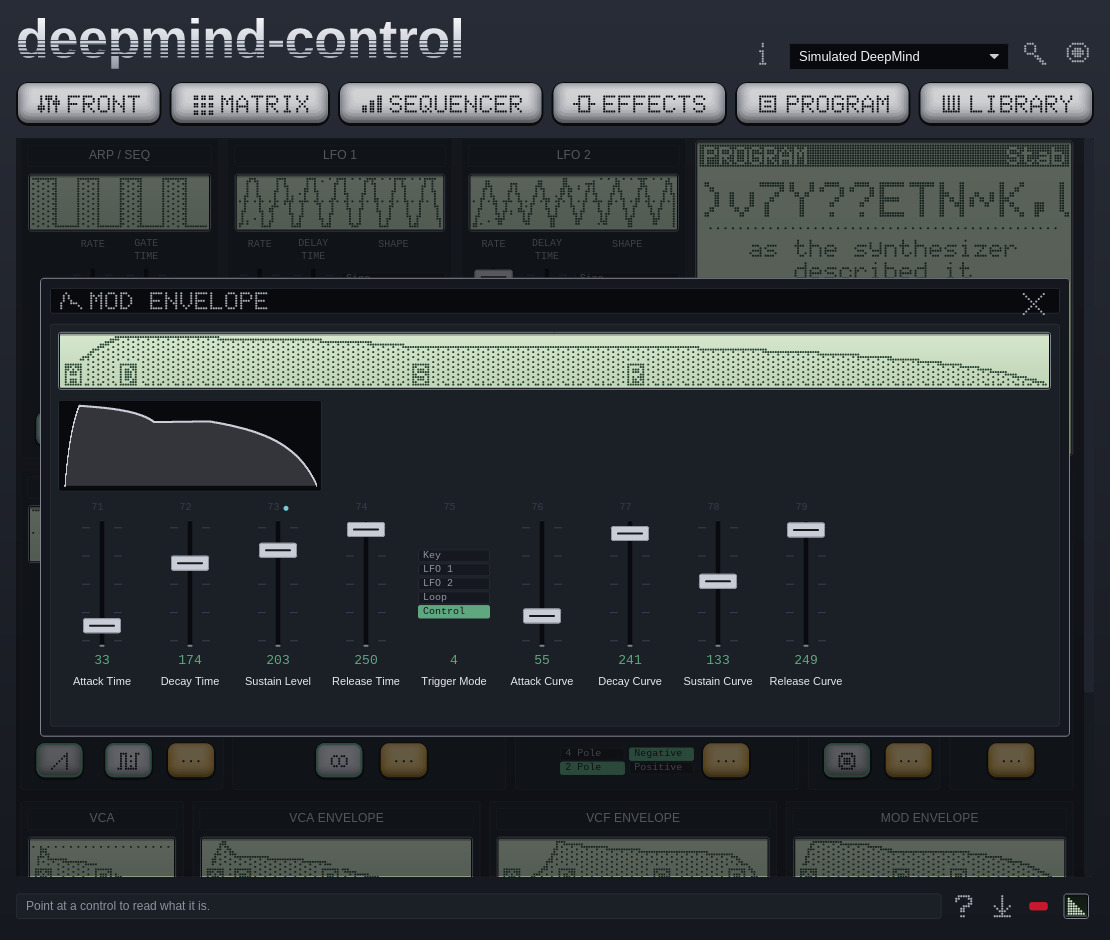
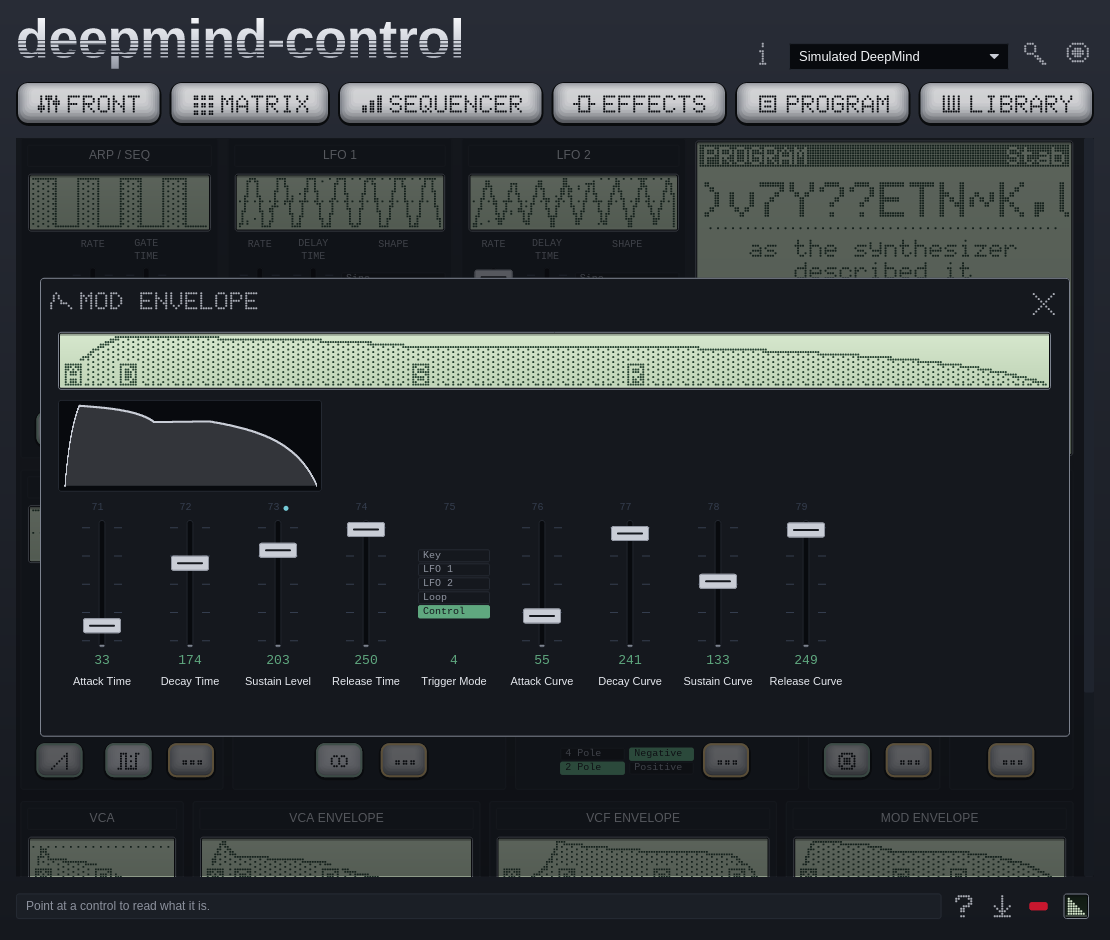
Take three frames down to one, and ring a press instead of lighting it
A sheet was a bordered panel holding a bordered heading band above a bordered
face plate holding the rack: three rectangles deep before anything on it is a
control. Each of the three was right where it came from and wrong here. A
heading band is recessed on the front panel because it sits in a row of ten
plates; a face plate is bordered because it is raised off the panel the
recesses are cut into. A rack is never on the front panel. It is on a sheet,
which is already a plate lifted off the window, or on a page, which is the
window.

So the sheet keeps its own edge and the two inside it are gone. The title
stands on the sheet and the rack stands under it. What is left framed is every
individual control, which is drawn as a recess with a lit lower wall and has
never needed help reading as cut.

The press that opens a section is ringed in the instrument's amber rather than
lit in it. A DeepMind leaves every EDIT lit the whole time it is powered, which
is true, and which made ten amber rectangles the loudest thing in a window
whose every other press is off. The ring says which row the press is in at a
tenth of the ink, and the lamp goes back to being what a press carrying a value
spends. Face::ringed is the new face; the cap is unchanged otherwise.

The claim ring goes through cap::glow, the way the modulation teal already
does, and for the same reason plus one. The ring stands in the band a backlit
cap has between its bezel and its hot middle, so it is a band of lamp — and
[…]

diff --git a/crates/control-ui/src/modal.rs b/crates/control-ui/src/modal.rs
@@ -49,7 +49,7 @@
 
 use deepmind_midi::param::Group;
 use iced_core::alignment::{Horizontal, Vertical};
-use iced_core::{Background, Border, Font, Length, Theme, text::Renderer as TextRenderer};
+use iced_core::{Font, Length, Theme, text::Renderer as TextRenderer};
 use iced_widget::{button, column, container, mouse_area, opaque, row, scrollable, space, stack};
 
 use crate::Element;
@@ -263,11 +263,16 @@ where
 /// sheet needed told twice — the display under it is drawn in the claim it is
 /// under, the way every display here is.
 ///
-/// The band the plaque sits on is the one a plate on the front panel prints its
-/// name in, because that is where somebody has just come from: the name was
-/// printed across the top of the plate whose `EDIT` they pressed. At the
-/// right-hand end is the one press. A heading with nothing at that end would be
-/// a sheet whose only ways out are two gestures.
+/// **On the sheet and not in a box on it.** It was a recessed band with a
+/// border, which is what a plate on the front panel prints its name in — and a
+/// plate needs one because it stands in a row of ten plates on a dark panel.
+/// A sheet is already a panel lifted off the window with its own lit edge, and
+/// the rack under this is already the thing the eye lands on. A bordered band
+/// inside a bordered sheet above a bordered rack is three frames deep to say
+/// one word. The title is the words and the mark, standing on the sheet.
+///
+/// At the right-hand end is the one press. A heading with nothing at that end
+/// would be a sheet whose only ways out are two gestures.
 fn heading<'a, Renderer>(section: Group) -> Element<'a, Renderer>
 where
     Renderer: TextRenderer<Font = Font> + 'a,
@@ -283,19 +288,6 @@ where
     )
     .width(Length::Fill)
     .height(Length::Fixed(HEAD))
-    .padding([0.0, WITHIN])
-    .style(|theme: &Theme| {
-        let material = materials(theme);
-        container::Style {
-            background: Some(Background::Color(material.recess)),
-            border: Border {
-                color: material.recess_edge,
-                width: 1.0,
-                radius: 2.into(),
-            },
-            ..container::Style::default()
-        }
-    })
     .into()
 }
 

diff --git a/crates/control-ui/src/cap.rs b/crates/control-ui/src/cap.rs
@@ -168,6 +168,21 @@ impl Face {
             ring: None,
         }
     }
+
+    /// A cap with no lamp behind it, ringed in `ring`.
+    ///
+    /// What the press that opens a section wears. It was lit, on the argument
+    /// that a `DeepMind` leaves every `EDIT` lit the whole time it is powered —
+    /// which is true, and which made ten amber rectangles the loudest thing on
+    /// a panel whose every other press is off. A ring says the same thing at a
+    /// tenth of the ink: this is the amber row, and the lamp is what the ones
+    /// carrying a *value* spend.
+    pub(crate) const fn ringed(ring: Color) -> Self {
+        Self::Cap {
+            lamp: None,
+            ring: Some(ring),
+        }
+    }
 }
 
 impl Face {
@@ -529,6 +544,12 @@ where
         // middle. Drawn last of the cap's own layers so the diffuser does not
         // wash it out at the corners, where the rounding brings the two within
         // a point of each other.
+        //
+        // Through [`glow`], because the band it stands in is a band of *lamp*:
+        // a ring drawn at the raw colour is harder and more saturated than any
+        // light that ever came through this rubber, and next to a lit cap it
+        // reads as printed on rather than lit from under. The green on a
+        // confirmed value used to be the one saturated thing on the panel.
         if let Some(ring) = face.ring() {
             renderer.fill_quad(
                 renderer::Quad {
@@ -536,7 +557,7 @@ where
                     border: Border {
                         color: Color {
                             a: if held { RINGING / 2.0 } else { RINGING },
-                            ..ring
+                            ..glow(ring)
                         },
                         width: BAND,
                         radius: mould(rubber.height).into(),

diff --git a/crates/control-ui/src/panel.rs b/crates/control-ui/src/panel.rs
@@ -670,25 +670,15 @@ where
     if !slots.is_empty() {
         body = body.push(row(slots).spacing(0).wrap());
     }
-    container(body)
-        .padding(8)
-        .style(|theme: &Theme| {
-            // The face plate the library's own panels draw their slots on.
-            let material = materials(theme);
-            container::Style {
-                // Raised off the panel, so the recesses cut into it read as
-                // cut into something. A plate the colour of its own slots is a
-                // plate with invisible slots.
-                background: Some(Background::Color(material.plate)),
-                border: Border {
-                    color: material.recess_edge,
-                    width: 1.0,
-                    radius: 3.into(),
-                },
-                ..container::Style::default()
-            }
-        })
-        .into()
+    // On whatever is holding it, and not on a face plate of its own. A rack
+    // used to draw one — the library's own panels do, and a plate raised off
+    // the panel is what makes the recesses cut into it read as cut into
+    // something. But a rack is never on the panel: it is on a sheet, which is
+    // already a plate lifted off the window, or on a page, which is the window.
+    // So the plate was a bordered rectangle inside a bordered rectangle, and
+    // what it framed was forty controls that are each drawn as a recess with a
+    // lit lower wall and need no help being read as cut.
+    container(body).padding(8).into()
 }
 
 /// The display across the top of a section's rack, as wide as the rack is.

diff --git a/crates/control-ui/src/badge.rs b/crates/control-ui/src/badge.rs
@@ -436,17 +436,24 @@ pub const PANEL: Badge = Badge::new(
 /// application has meant by three dots since menus had them — *and more* — and
 /// it is the one mark in this module that needed no invention at all.
 ///
-/// Three dots, two apart, on the middle line. At this grid they are single
-/// dots and not blocks: a row of two-by-two squares is three buttons rather
-/// than an ellipsis, and the dot is what the display is made of anyway.
+/// Three dots, one apart, on the middle line, two by two each.
+///
+/// They were single dots, which is the honest thing for a display to draw an
+/// ellipsis as and too light for a press: three specks on a cap the size of a
+/// thumb is a cap that looks blank until you go looking. Two by two is a dot
+/// with weight and still a dot.
+///
+/// Nine columns cannot hold three two-wide blocks symmetrically — six of ink
+/// and two of gap is eight — so the spare column is on the left and the
+/// drawing sits half a dot right of centre, which at this pitch is a point.
 pub(crate) const MORE: Badge = Badge::new(
     &[
         0b0_0000_0000,
         0b0_0000_0000,
         0b0_0000_0000,
         0b0_0000_0000,
-        0b0_1001_0010,
-        0b0_0000_0000,
+        0b0_1101_1011,
+        0b0_1101_1011,
         0b0_0000_0000,
         0b0_0000_0000,
         0b0_0000_0000,

diff --git a/crates/control-ui/src/home.rs b/crates/control-ui/src/home.rs
@@ -2053,9 +2053,13 @@ where
         // the window does not stretch, so neither is this.
         container(
             crate::cap::cap(
-                // Lit the whole time it is powered, which is the state the
-                // instrument leaves every `EDIT` in.
-                |_: &Theme| crate::cap::Face::lit(crate::style::WAY_IN),
+                // Ringed in the instrument's own amber rather than lit in it.
+                // A `DeepMind` leaves every `EDIT` lit the whole time it is
+                // powered, and ten lit caps in a window this dark is ten amber
+                // rectangles shouting over a panel whose every other press is
+                // off. The ring says which row this press is in, and the lamp
+                // stays the thing a press carrying a value spends.
+                |_: &Theme| crate::cap::Face::ringed(crate::style::WAY_IN),
                 // And carrying three dots, which is what the rest of the
                 // section is: the plate has the controls a hand reaches for and
                 // the press opens the ones it had no room for.

diff --git a/docs/waiting.md b/docs/waiting.md
@@ -36,7 +36,7 @@ Four: two from 26.5, and two about the front panel itself.
 | | | What the window does meanwhile |
 | --- | --- | --- |
 | [#45](https://github.com/MysteriousWolf/deepmind-midi/issues/45) | What the front panel looks like, beyond which controls are on it | **Transcribes six facts, in tables written to delete themselves.** `front::sections()` says which parameters have a physical control and what is silkscreened over each; it does not say that three more of them *have* a button (`OSC 1 Saw Enable`, `OSC 1 Pulse Enable` and `VCF Envelope Polarity`, printed as a sawtooth, a pulse and `INVERT`), that a thin rule divides the clusters inside a wide section, which of the three lamp colours is behind a given button, or which of the three colours a section's banner is printed in on a `12X`, where a `12` prints it on the panel. `SILKSCREEN`, `CYAN` and `BLUE` in `control-ui/src/home.rs` are those facts and nothing else: they name no parameter the library lacks, only how the front of the instrument presents one. A press the library starts carrying is skipped rather than drawn twice, and `the_silkscreen_table_is_still_needed` fails on the row that has become dead weight, so the release that answers this is a red build here rather than a quiet duplicate. The interesting half is the two waveform presses: their legend is a wave and not a word, and `PanelControl::legend` is a `&str`, so the table cannot say so even if it listed them |
-| [#45](https://github.com/MysteriousWolf/deepmind-midi/issues/45), second half | The front-panel presses that are not program parameters | **Draws none of them.** The arpeggiator has `CHORD` and `POLY CHORD` beside its `ON/OFF` and `HOLD`, and a sweep of all 242 `ParamId`s finds one arpeggiator switch: `Arp Hold`. The other two latch what the keyboard is doing rather than set a byte in the edit buffer, so there is nothing for a cap to move — and `front::PanelControl` is keyed by parameter, so the library cannot describe the press either, however the table grows. The same holds for the data-entry group and the `EDIT`/`COMPARE`/`WRITE` row, which this window answers in its own way. What is asked for is a description of a press that sends something other than a parameter change, with what it sends; until then the window draws the subset the program holds, and a player reaching for `CHORD` finds nothing |
+| [#46](https://github.com/MysteriousWolf/deepmind-midi/issues/46) | The front-panel presses that are not program parameters | **Draws none of them.** The arpeggiator has `CHORD` and `POLY CHORD` beside its `ON/OFF` and `HOLD`, and a sweep of all 242 `ParamId`s finds one arpeggiator switch: `Arp Hold`. The other two latch what the keyboard is doing rather than set a byte in the edit buffer, so there is nothing for a cap to move — and `front::PanelControl` is keyed by parameter, so the library cannot describe the press either, however the table grows. The same holds for the data-entry group and the `EDIT`/`COMPARE`/`WRITE` row, which this window answers in its own way. What is asked for is a description of a press that sends something other than a parameter change, with what it sends; until then the window draws the subset the program holds, and a player reaching for `CHORD` finds nothing |
 | [#38](https://github.com/MysteriousWolf/deepmind-midi/issues/38) | What a modulation depth is worth: the law between `Mod n Depth` and the destination's own range | **Assumes full depth moves the destination over its whole range.** 26.5 published `ParamId::modulation_reach`, which is the accessor and not the answer: it returns `None` for every pair, because the manual prints the depth's own range and nothing relating a depth to what it does at the far end of a routing. The assumption is now a fallback behind that question, in `reach_of` in `control-ui/src/mapping.rs`, which both the depth-setting drag and the reach bands go through. When a measurement lands in `spec/measurements.toml` the fallback stops being reached, with no change here. It blocks nothing: the drag writes to the same byte the depth fader already held |
 | [#43](https://github.com/MysteriousWolf/deepmind-midi/issues/43) | The ends `cell_of` and `glyph` have no picture for | **Draws an empty 7x7 box and the name beside it.** Counted against 26.5's own tables: 3 of the 25 modulation sources (`BreathCtrl`, `Voice Num`, `Uni Voice`; `Off` is rightly none), 11 destinations naming a set with no one narrowest member (`All Attack`, `Env Rates`, the three `Env n CurveS`), and 8 naming no program parameter at all (`OSC1 Pitch`, `VCA Pan` and the rest of the voice's own quantities), which are also the ones no control can light for. The 48 `FX n Param m` are a question rather than a gap: what one is depends on the algorithm loaded, so the issue asks whether the family's mark should stand in or whether "no glyph by design" should be stated |
 

diff --git a/docs/interface.md b/docs/interface.md
@@ -124,7 +124,8 @@ The rest of the panel's rules:
   one with a dotted line standing out in the low part of the wave: a second,
   later falling edge, which is where the `PWM` fader beside the press would move
   the one that is drawn — two linked rings on `SYNC`, a driver seen face on for the high-pass `BOOST`,
-  and three dots on every `EDIT`, because what is behind that press is the rest
+  and three dots on every `EDIT` — two by two each, because three specks on a
+  cap the size of a thumb is a cap that looks blank — because what is behind that press is the rest
   of the section: the plate carries the four or five controls a hand reaches for
   and the press opens the twenty it had no room for, which is what an ellipsis
   has meant in every toolbar since menus had them. It was a pencil, and a pencil
@@ -298,10 +299,20 @@ and never which thing, because one thing is open: a second sheet over the first
 would be a window nobody can find the bottom of.
 
 **A sheet is made of what the window is already made of.** The face plate every
-rack already sits on, the bar a plate on the front panel prints its name in, a
-mark stencilled the way the chrome's other marks are, and behind it the panel's
-own darkest material at three-quarters alpha. Not a dialog borrowed from a
-toolkit and not a grey invented for one.
+rack already sat on, its title in the display's own dots, a mark stencilled the
+way the chrome's other marks are, and behind it the panel's own darkest
+material at three-quarters alpha. Not a dialog borrowed from a toolkit and not
+a grey invented for one.
+
+**And it is one frame and not three.** The title was in a recessed bordered
+band and the rack was on a bordered face plate of its own, both inside the
+bordered sheet — three rectangles deep before anything is a control. A plate
+needs a border on the *front panel*, where it stands in a row of ten on a dark
+panel; a rack is never on the front panel, it is on a sheet, which is already a
+plate lifted off the window, or on a page, which is the window. So the sheet
+keeps its own edge and the two inside it are gone. What is left framed is every
+individual control, which is drawn as a recess with a lit lower wall and needs
+no help reading as cut.
 
 **The shade covers the surface and not the whole window.** What a sheet is the
 detail *of* is the panel it was opened from, and that is what goes dark under it.
@@ -1619,6 +1630,18 @@ So `style::modulated` is the lamp as the cap shows it — `cap::glow`, which is
 the rim and the middle halved — and everything that means *what the cyan cap
 means* is drawn in that. The instrument's own colour is still the one thing
 written down; this is what the rubber does to it.
+
+**The claim ring goes through the same call**, for the same reason and one more:
+the ring stands in the band a backlit cap already has between its bezel and its
+hot middle, so it is a band of *lamp*, and drawn at the raw colour it was the
+one saturated thing on a panel of soft ones — a green printed on the cap rather
+than lit from under it.
+
+**And the press that opens a section is ringed rather than lit.** A `DeepMind`
+leaves every `EDIT` lit the whole time it is powered, which is true and which
+made ten amber rectangles the loudest thing in a window whose every other press
+is off. The ring says which row the press is in at a tenth of the ink, and the
+lamp stays what a press carrying a *value* spends.
 
 The effect panels are the exception, and a deliberate one: their colours are
 measured from the manual's own figures, four per algorithm, and a plate carrying

diff --git a/docs/todo.md b/docs/todo.md
@@ -24,11 +24,12 @@ is keyed by parameter, so the library has no way to describe the press either.
 The same is true of the data entry group and the `EDIT`/`COMPARE`/`WRITE` row,
 which this window has its own answers for.
 
-What to ask for is in [waiting](waiting.md): a description of the front-panel
-presses that are *not* parameters, so that a window can draw the front of the
-instrument completely and send what each one sends. Until then the window draws
-what the program holds, which is the honest subset, and a player reaching for
-`CHORD` finds nothing.
+Asked for as
+[deepmind-midi#46](https://github.com/MysteriousWolf/deepmind-midi/issues/46): a
+description of the front-panel presses that are *not* parameters, with what each
+one sends, and "nothing over the wire" named outright where that is the answer.
+Until then the window draws what the program holds, which is the honest subset,
+and a player reaching for `CHORD` finds nothing.
 
 ### The bar said something no one sheet can
 
